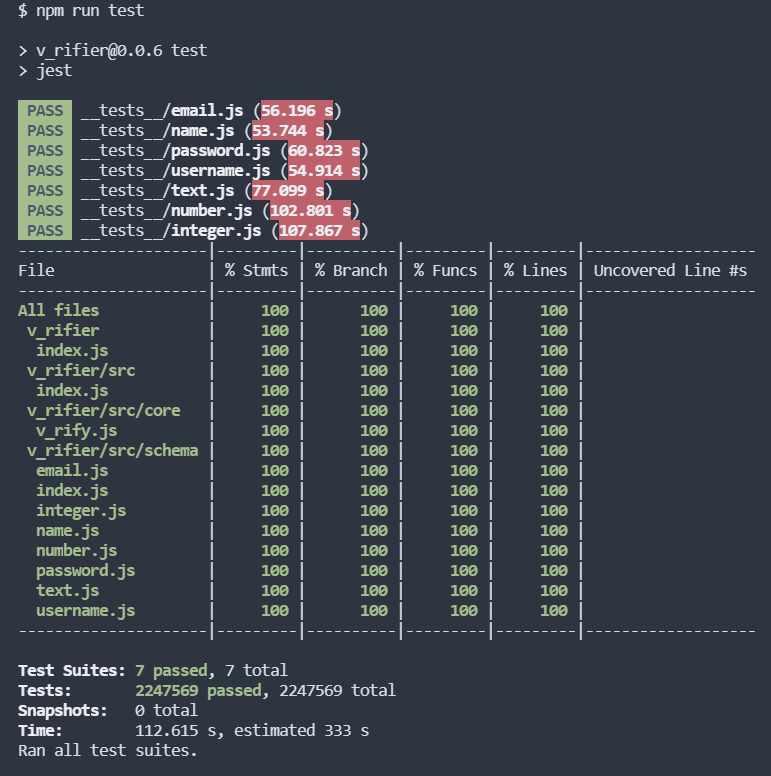
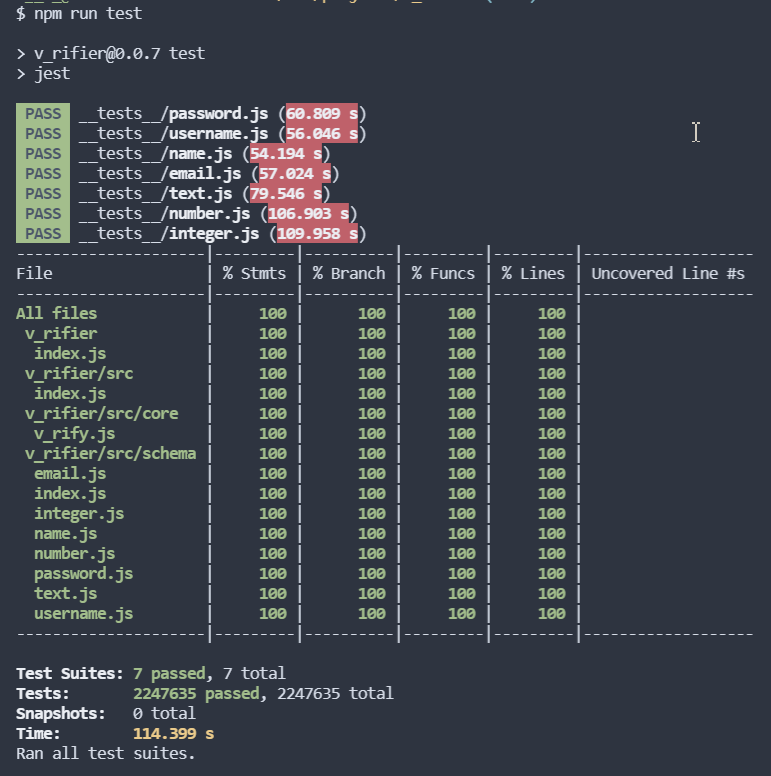
yea coverage image

Changed region(s): [[0.0, 0.0619, 0.965, 0.9897], [0.0, 0.0, 0.1868, 0.0309], [0.3113, 0.9278, 0.4669, 0.9588]]

diff --git a/src/schema/email.js b/src/schema/email.js
@@ -1,7 +1,7 @@
 const v_rify = require('../core/v_rify');
 
 const email_schema = {
-  format: /^[A-Za-z0-9][A-Za-z0-9._]+[A-Za-z0-9]+@[^\s@]+\.[^\s@]+$/,
+  format: /^[A-Za-z0-9][A-Za-z0-9._]+[A-Za-z0-9_]+@[^\s@]+\.[^\s@]+$/,
   msg: {
     success: "✅ Success\n📫 Email Verified Successfully.",
     error: {

diff --git a/_test-data/email.list.js b/_test-data/email.list.js
@@ -132,6 +132,10 @@ module.exports = [
     expect: $_email
   },
   {
+    input: 'slavko_@gmail.com',
+    expect: true
+  },
+  {
     input: 'slavko.@gmail.com',
     expect: $_email
   },

diff --git a/_test-data/_SETTINGS.js b/_test-data/_SETTINGS.js
@@ -1,3 +1,3 @@
 module.exports = {
-  test_count : 250,
+  test_count : 250000,
 };
